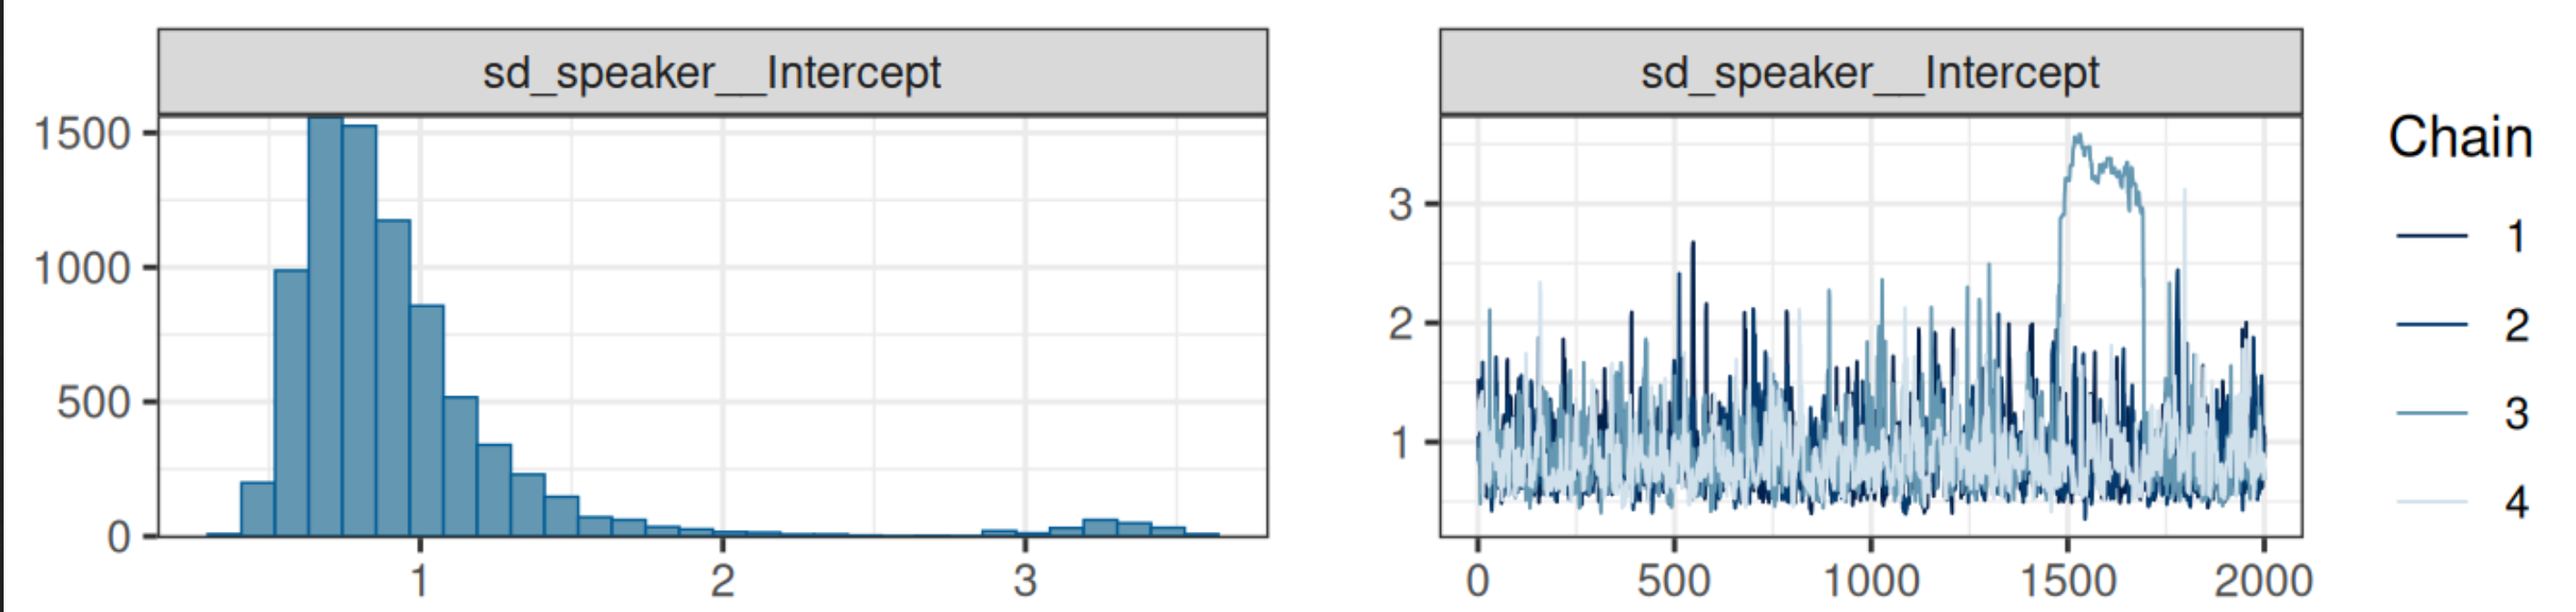
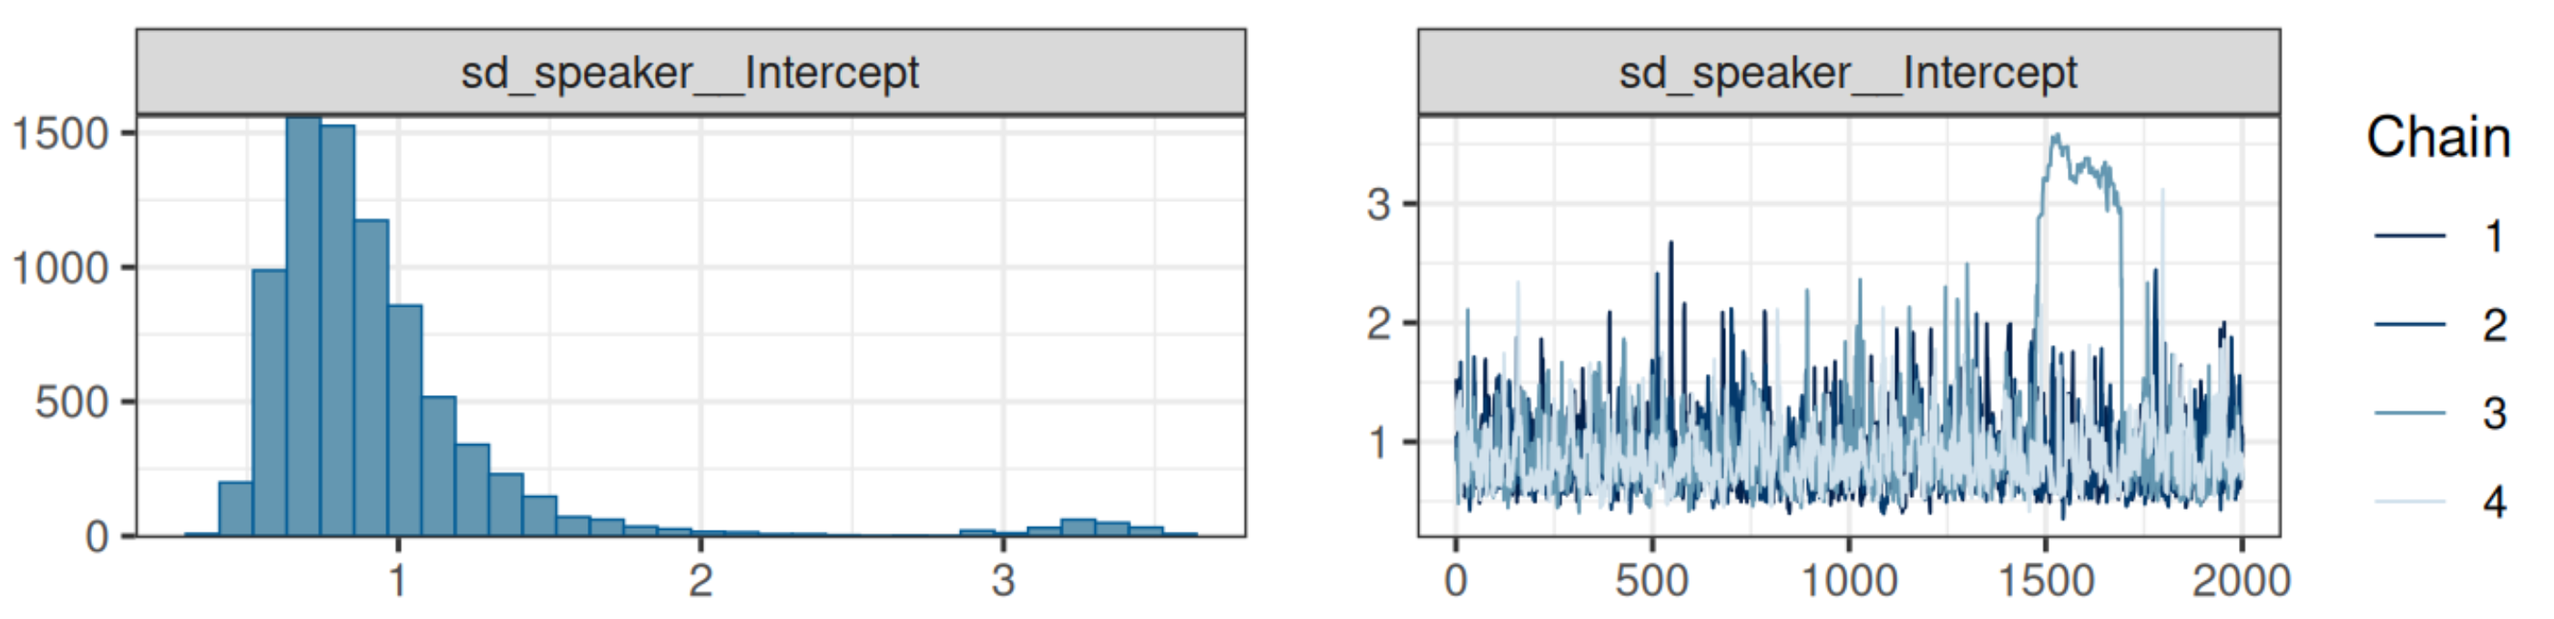
update

diff --git a/docs/08-introduction_to_bayesian_regression_with_brms.html b/docs/08-introduction_to_bayesian_regression_with_brms.html
@@ -419,7 +419,7 @@ window.Quarto = {
 <div class="cell-output-display">
 <div>
 <figure class="figure">
-<p><img src="images/bad_chains2.png" class="img-fluid figure-img" width="1414"></p>
+<p><img src="images/bad_chains2.png" class="img-fluid figure-img" width="1402"></p>
 </figure>
 </div>
 </div>
